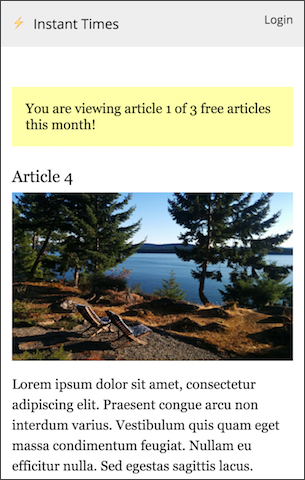
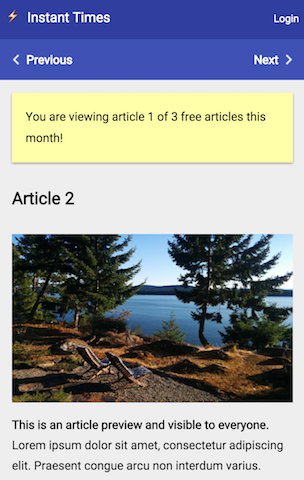
Improve UI design
- move the navigation bar to the top for easier testing
- remove unused css
- new theme
- publisher logo links now to homepage
- fix clone instruction in readme

diff --git a/views/article.html b/views/article.html
@@ -30,21 +30,32 @@
     <script async custom-element="amp-access" src="https://cdn.ampproject.org/v0/amp-access-0.1.js"></script>
     <script async custom-template="amp-mustache" src="https://cdn.ampproject.org/v0/amp-mustache-0.1.js"></script>
     <style>body {opacity: 0}</style><noscript><style>body {opacity: 1}</style></noscript>
-      <script async src="https://cdn.ampproject.org/v0.js"></script>
+    <script async src="https://cdn.ampproject.org/v0.js"></script>
+    <link href='https://fonts.googleapis.com/css?family=Roboto:400,600' rel='stylesheet' type='text/css'>
 
   </head>
   <body>
     <header>
-      <div class="brand-logo">
-        ⚡ Instant Times
-        <span amp-access="subscriber" amp-access-hide class="login-header">
+      <div class="brand-logo" data-z-depth="2"><a href="/">⚡ Instant Times</a>
+        <span amp-access="subscriber" amp-access-hide>
           <a href="<% host %>/logout" class="logout">Logout</a>
         </span>            
-        <span amp-access="NOT subscriber" amp-access-hide class="login-header">
+        <span amp-access="NOT subscriber" amp-access-hide>
           <a on="tap:amp-access.login" class="logout">Login</a>  
         </span>                  
       </div>  
-
+      <div class="navigation" data-z-depth="2">
+        <%#prev%>
+        <div class="prev">
+          <a href="/<% prev %>">Previous</a>
+        </div>
+        <%/prev%>        
+        <%#next%>        
+        <div class="next">
+          <a href="/<% next %>">Next</a>
+        </div>
+        <%/next%>                
+      </div>
     </header>
     <main role="main">
     <article>
@@ -52,21 +63,21 @@
         This section is only visible by subscribers. The subscriber variable is 
         defined in the authentification response data.
       -->
-      <section amp-access="access AND subscriber" amp-access-hide class="meter-section">
+      <section amp-access="access AND subscriber" amp-access-hide class="meter-section" data-z-depth="2">
         Thanks for being a subscriber. You rock!
       </section>
 
-      <section amp-access="access AND views" amp-access-hide class="meter-section">
+      <section amp-access="access AND views" amp-access-hide class="meter-section" data-z-depth="2">
         <template amp-access-template type="amp-mustache">
           You are viewing article {{views}} of {{maxViews}} free articles this month!
         </template>
       </section>
 
-      <section amp-access="access AND return" amp-access-hide class="meter-section">
+      <section amp-access="access AND return" amp-access-hide class="meter-section" data-z-depth="2">
         Welcome back! You've read this article already.
       </section>
 
-      <section amp-access="access AND fcs" amp-access-hide class="meter-section">
+      <section amp-access="access AND fcs" amp-access-hide class="meter-section" data-z-depth="2">
         Yay! The first click is free.
       </section>
 
@@ -74,7 +85,7 @@
         This section will only be shown to users who do not have access to the article and
         have reached the maximum number of articles for that month.
       -->
-      <section amp-access="NOT access AND maxViews" amp-access-hide class="meter-section">
+      <section amp-access="NOT access AND maxViews" amp-access-hide class="meter-section" data-z-depth="2">
         <template amp-access-template type="amp-mustache">
           You have reached your {{maxViews}} free articles this month!
         </template>
@@ -93,7 +104,7 @@
                                 alt="Curabitur convallis, urna quis pulvinar feugiat, purus diam posuere turpis, sit amet tincidunt purus justo et mi."
                                 height="216" on="tap:headline-img-lightbox">
         </amp-img>
-        <p> Lorem ipsum dolor sit amet, consectetur adipiscing elit. Praesent congue arcu non interdum varius. Vestibulum quis quam eget massa condimentum feugiat. Nullam eu efficitur nulla. Sed egestas sagittis lacus. Integer efficitur placerat urna, at euismod justo molestie in. In ullamcorper leo sit amet erat vehicula varius. Cras venenatis suscipit mollis. Suspendisse non ipsum finibus, blandit nibh vitae, vestibulum eros. In at placerat massa. Vestibulum maximus sagittis eros quis lacinia. Suspendisse elementum, nibh tempor gravida pretium, quam neque ornare ante, in elementum tellus lacus vel arcu.
+        <p> <b>This is an article preview and visible to everyone.</b> Lorem ipsum dolor sit amet, consectetur adipiscing elit. Praesent congue arcu non interdum varius. Vestibulum quis quam eget massa condimentum feugiat. 
         </p>
       </section>
 
@@ -111,25 +122,13 @@
                                        alt="Fusce pretium tempor justo, vitae consequat dolor maximus eget."
                                        height="216">
           </amp-img>
-        <figcaption>
-        Fusce pretium tempor justo, vitae consequat dolor maximus eget.
-        </figcaption>
         </figure>
-        <p>Sed bibendum urna ac turpis placerat, eu pellentesque massa congue. Aliquam porta, dui eget cursus aliquam, est orci consequat ex, vel auctor justo leo nec dolor. Class aptent taciti sociosqu ad litora torquent per conubia nostra, per inceptos himenaeos. Nulla pellentesque eu nisi et dictum. Praesent viverra scelerisque libero et pretium. Sed accumsan quis lectus id ornare. Cras venenatis odio tellus, sed pretium dolor fermentum vel. Praesent luctus sem at sapien elementum, eu congue ipsum cursus. Etiam bibendum sapien nec dui maximus, et bibendum est fermentum. Duis vel sollicitudin libero, non eleifend enim. Nunc malesuada lectus sit amet justo mollis egestas. Duis sed egestas nisi, vulputate volutpat augue. Vivamus tincidunt ultricies neque, ut dapibus mauris pretium id. Ut nisi mauris, sollicitudin et egestas vel, laoreet ut mi. In at tincidunt turpis, a volutpat massa. Cras bibendum lorem sit amet est feugiat finibus.
+        <p><b>This is the main article and only visible to for the first three articles, subscribers and first-click-free users. </b>Sed bibendum urna ac turpis placerat, eu pellentesque massa congue. Aliquam porta, dui eget cursus aliquam, est orci consequat ex, vel auctor justo leo nec dolor. Class aptent taciti sociosqu ad litora torquent per conubia nostra, per inceptos himenaeos. Nulla pellentesque eu nisi et dictum. Praesent viverra scelerisque libero et pretium. Sed accumsan quis lectus id ornare. Cras venenatis odio tellus, sed pretium dolor fermentum vel. Praesent luctus sem at sapien elementum, eu congue ipsum cursus. Etiam bibendum sapien nec dui maximus, et bibendum est fermentum. Duis vel sollicitudin libero, non eleifend enim. Nunc malesuada lectus sit amet justo mollis egestas. Duis sed egestas nisi, vulputate volutpat augue. Vivamus tincidunt ultricies neque, ut dapibus mauris pretium id. Ut nisi mauris, sollicitudin et egestas vel, laoreet ut mi. In at tincidunt turpis, a volutpat massa. Cras bibendum lorem sit amet est feugiat finibus.
         </p>
       </div>
     </article>
     </main>
     <footer>
-      <ul>
-        <%#prev%>
-        <li><a href="/<% prev %>">Previous</a></li>
-        <%/prev%>        
-        <li><a href="/">Home</a></li>
-        <%#next%>        
-        <li><a href="/<% next %>">Next</a></li>
-        <%/next%>                
-      </ul>
     </footer> 
   </body>
 </html>

diff --git a/views/styles.html b/views/styles.html
@@ -1,28 +1,82 @@
 <style amp-custom>
   body {
     margin: 0;
-    font-family: 'Georgia', Serif;
+    font-family: 'Roboto', 'Georgia', Serif;
+    background: #eee;
+  }
+
+  [data-z-depth="2"] {
+    -webkit-filter: drop-shadow(0 1.8px 1.8px rgba(0, 0, 0, 0.16)) drop-shadow(0 1.8px 1.8px rgba(0, 0, 0, 0.23));
+    filter: drop-shadow(0 1.8px 1.8px rgba(0, 0, 0, 0.16)) drop-shadow(0 1.8px 1.8px rgba(0, 0, 0, 0.23));
+  }
+
+  h1 {
+    font-size: 20px;
+    font-weight: 600;
+    line-height: 44px;
+  }
+
+  p {
+    font-size: 14px;
+    font-weight: 400;
+    line-height: 25px;
+  }
+
+  header {
+    color: #fff;
+  }
+
+  .navigation {
+    background: #3F51B5;
+    list-style-type: none;
+    overflow: hidden;
+    margin: 0;
+    padding: 8px;
+  }
+
+  .navigation .prev {
+    float: left;
+    background-image: url(img/chevron-left.png);
+    background-position: left center;
+    background-repeat: no-repeat;
+    padding-left: 24px;
+  }
+
+  .navigation .next {
+    float: right;
+    background-image: url(img/chevron-right.png);
+    background-position: right center;
+    background-repeat: no-repeat;
+    padding-right: 24px;
+  }
+
+  .navigation a {
+    display: inline-block;
+    text-align: center;
+    color: #fff;
+    text-decoration: none;
+    font-size: 14px;
+    font-weight: 600;
+    line-height: 32px; 
   }
 
   .brand-logo {
-    font-family: 'Open Sans';
-    background: #eee;
-    margin: 0 0 8px 0;
-    padding: 15px;
+    background: #303F9F;
+    padding: 8px;
     overflow: hidden;
+  }
+
+  .brand-logo a{
+    color: #fff;
+    text-decoration: none;
   }
 
   .logout {
     float: right;
-    font-family: 'Open Sans';
-    font-size: smaller;
-    margin: 0 0 8px 0;
     text-decoration: none;
-  }
-
-  .title {
-    margin: 8px 0;
-    font-size: larger;
+    font-size: 12px;
+    font-weight: 400;
+    line-height: 32px; 
   }
 
   main {
@@ -33,50 +87,29 @@
     line-height: 24px;
   }
 
-  .full-bleed {
-    margin: 0 -15px;
-  }
-
-  h1 {
-    margin: 5px 0;
-    font-weight: normal;
-  }
-
   hr {
     margin: 0;
   }
 
   .meter-section {
-    margin-top: 24px;
-    margin-bottom: 24px;
     padding: 16px;
     background: #ffa;
+    font-size: 14px;
+    font-weight: 400;
+    line-height: 25px;
   }
 
   .help-section {
-    margin-top: 24px;
     padding: 16px;
     background: #c0f2ba;
   }
 
-  footer {
-    background: #f4f4f4;
+  .form-line {
+    margin-bottom: 8px;
   }
 
-  footer ul {
-    list-style-type: none;
-    overflow: hidden;
-    margin: 0px;
-  }
-
-  footer li {
-    float: left;
-  }
-
-  footer li a {
-    display: inline-block;
-    text-align: center;
-    padding: 14px 16px;
+  .label {
+    margin-bottom: 8px;
   }
 
   #info {

diff --git a/views/list.html b/views/list.html
@@ -16,13 +16,7 @@
       </div>  
     </header>
     <main role="main">
-    <h1 class="title">Articles</h1>    
-    <ul>
-      <%#articles%>
-      <li><a href="<% id %>"><% title %></a></li>
-      <%/articles%>
-    </ul>
-    <section class="help-section">
+    <section class="help-section" data-z-depth="2">
       This is an AMP Paywall demo. To run this demo:
       <ul>
         <li>Turn on <b>dev-channel</b> and <b>amp-access</b> experiments under <a href="https://cdn.ampproject.org/experiments.html">
@@ -33,6 +27,12 @@
             First-Click-Free test page</a>.</li>
       </ul>
     </section>
+    <h1>Articles</h1>    
+    <ul>
+      <%#articles%>
+      <li><a href="<% id %>"><% title %></a></li>
+      <%/articles%>
+    </ul>
     </main>
   </body>
 </html>

diff --git a/views/login.html b/views/login.html
@@ -12,9 +12,9 @@
       </div>
     </header>
     <main>
-    <div class="title">
+    <h1> 
       Login
-    </div>
+    </h1>
     <form method=post action="login-submit">
       <div class=form-line>
         <div class=label>Email:</div>

diff --git a/README.md b/README.md
@@ -74,7 +74,7 @@ That's it.
 Clone the repository via:
 
 ```none
-$ git clone https://github.com/ampproject/amp-access-prototyping.git
+$ git clone https://github.com/ampproject/amp-publisher-sample.git
 ```
 
 Install [NodeJS](https://nodejs.org/) and run in the project dir:
